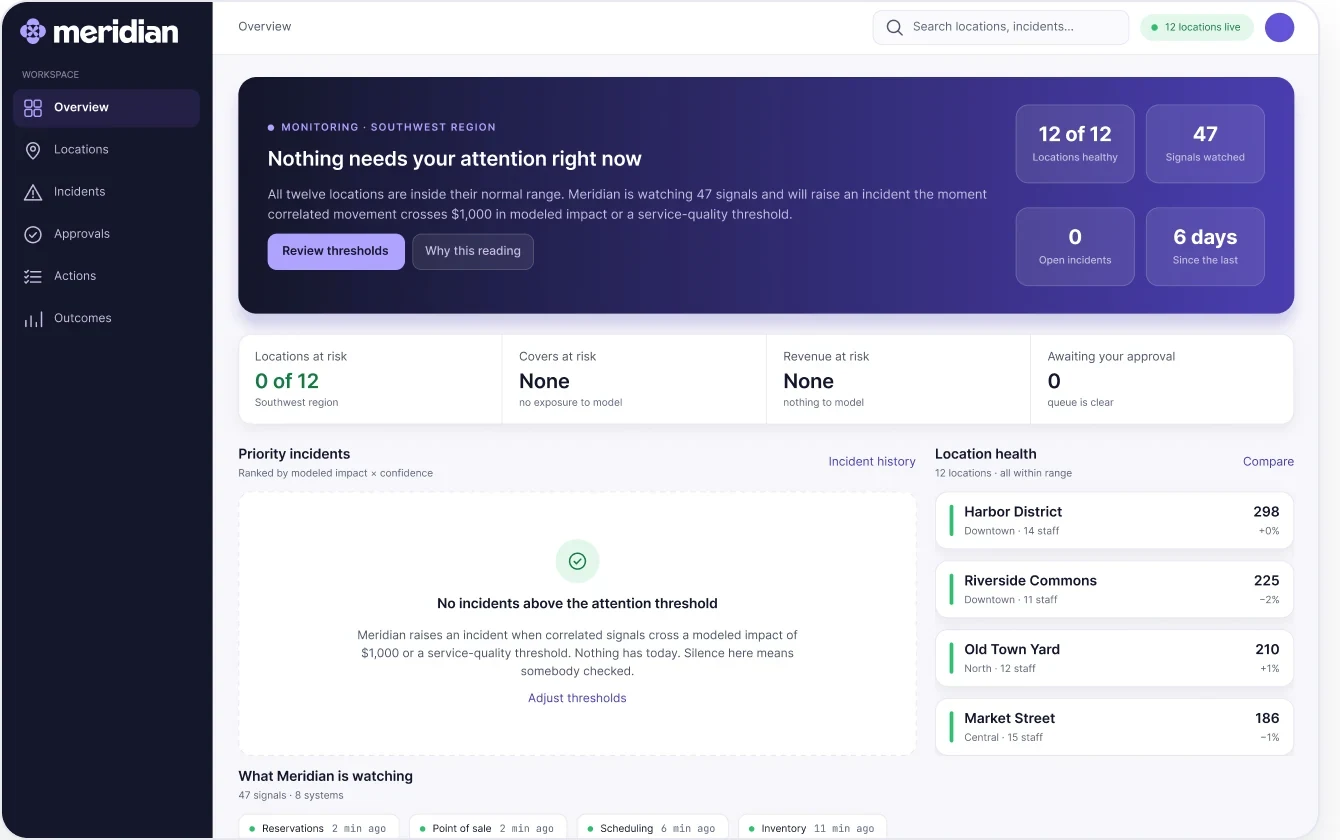
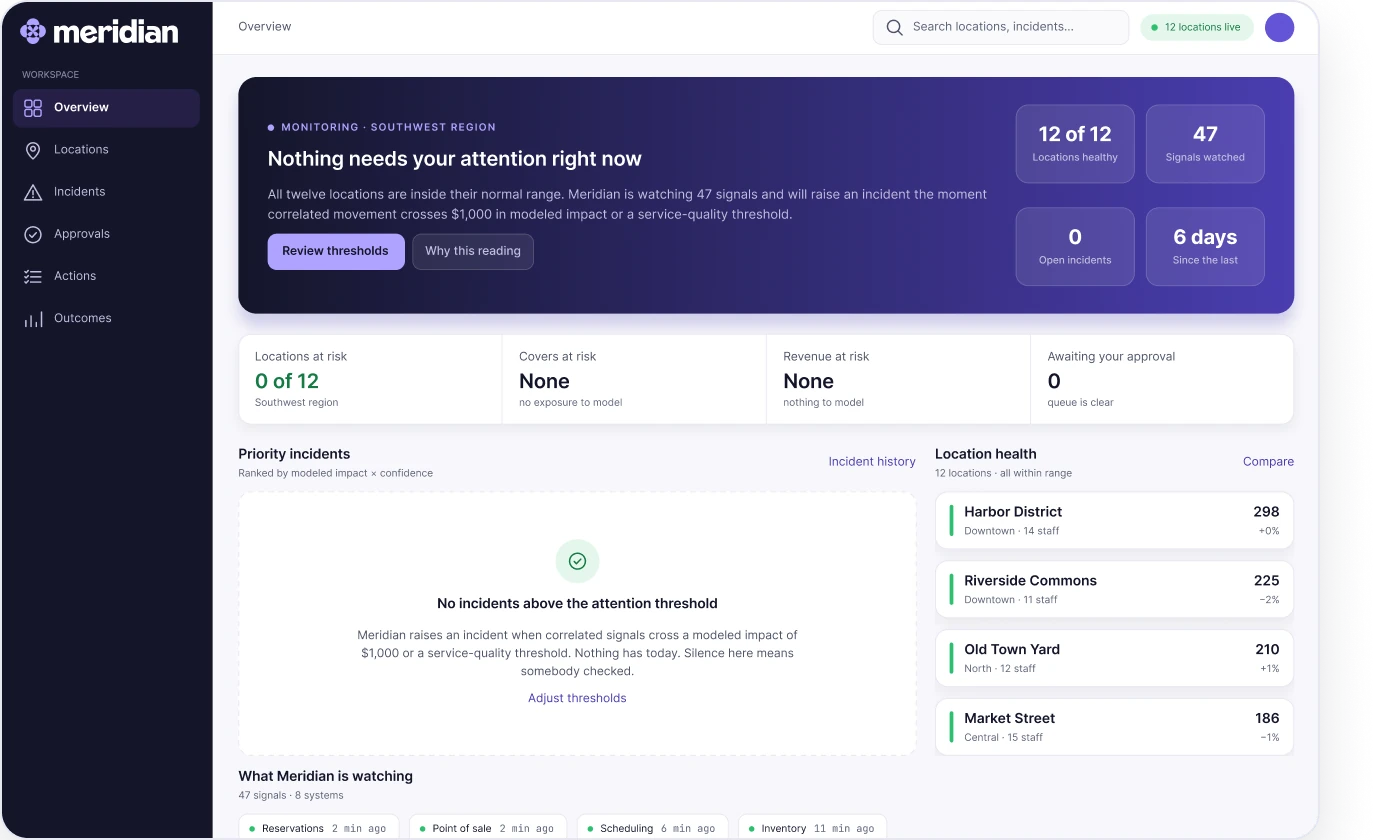
Ship full-frame Meridian 2x stills without CSS clip.
The Figma PNGs already carry radius and shadow in the alpha, so .own-frame drops the Typeshelf card treatment on those figures.

diff --git a/app/meridian/page.tsx b/app/meridian/page.tsx
@@ -38,8 +38,8 @@ export default function Meridian() {
     </dl>
 
     <figure>
-      <div className="shot">
-        <img src="/assets/meridian-hero.webp" alt="Meridian Control Tower overview screen" width="1160" height="664" loading="eager" />
+      <div className="shot own-frame">
+        <img src="/assets/meridian-hero.webp" alt="Meridian Control Tower overview screen" width="2512" height="1842" loading="eager" />
       </div>
     </figure>
   </header>
@@ -190,8 +190,8 @@ export default function Meridian() {
     the situation in a sentence before any metric shows up. The numbers under it are consequences.
     Covers at risk, revenue at risk.</p>
     <figure>
-      <div className="shot">
-        <img src="/assets/meridian-control-tower.webp" alt="Control Tower: regional overview with priority incidents and approvals queue" width="1160" height="839" loading="lazy" />
+      <div className="shot own-frame">
+        <img src="/assets/meridian-control-tower.webp" alt="Control Tower: regional overview with priority incidents and approvals queue" width="2480" height="1810" loading="lazy" />
       </div>
     </figure>
     <div className="notes">
@@ -211,8 +211,8 @@ export default function Meridian() {
     <p className="lede">This screen leads with plain language, then evidence, then a proposal. Nothing asks
     you to act until the situation's been explained in words you could repeat to your own boss.</p>
     <figure>
-      <div className="shot">
-        <img src="/assets/meridian-incident.webp" alt="Incident Workspace: plain-language summary, contributing signals, evidence and recommended response" width="1160" height="1296" loading="lazy" />
+      <div className="shot own-frame">
+        <img src="/assets/meridian-incident.webp" alt="Incident Workspace: plain-language summary, contributing signals, evidence and recommended response" width="2480" height="2724" loading="lazy" />
       </div>
     </figure>
     <div className="notes">
@@ -232,8 +232,8 @@ export default function Meridian() {
     <p className="lede">This screen makes oversight mean something. It shows what you're authorizing, what it
     costs, what you can undo, and how long you have to decide.</p>
     <figure>
-      <div className="shot">
-        <img src="/assets/meridian-recommendation.webp" alt="Recommendation Review: four proposed actions, alternatives considered, expected effect and decision record" width="1160" height="1161" loading="lazy" />
+      <div className="shot own-frame">
+        <img src="/assets/meridian-recommendation.webp" alt="Recommendation Review: four proposed actions, alternatives considered, expected effect and decision record" width="2480" height="2454" loading="lazy" />
       </div>
     </figure>
     <div className="notes">
@@ -254,8 +254,8 @@ export default function Meridian() {
     reasoning attached to the record, and lets the system suggest its own fixes. You still have to
     accept them.</p>
     <figure>
-      <div className="shot">
-        <img src="/assets/meridian-outcome.webp" alt="Outcome and Learning: predicted vs actual, decision record, and proposed model changes" width="1160" height="987" loading="lazy" />
+      <div className="shot own-frame">
+        <img src="/assets/meridian-outcome.webp" alt="Outcome and Learning: predicted vs actual, decision record, and proposed model changes" width="2480" height="2106" loading="lazy" />
       </div>
     </figure>
 
@@ -294,8 +294,8 @@ export default function Meridian() {
       shows the eight systems still reporting and when each last checked, and offers to adjust the
       threshold so you're not left wondering whether it's broken.</p>
       <figure>
-        <div className="shot narrow">
-          <img src="/assets/meridian-edge-allclear.webp" alt="All-clear zero state" width="670" height="420" loading="lazy" />
+        <div className="shot own-frame narrow">
+          <img src="/assets/meridian-edge-allclear.webp" alt="All-clear zero state" width="1384" height="840" loading="lazy" />
         </div>
       </figure>
     </div>
@@ -305,8 +305,8 @@ export default function Meridian() {
       <p>Three weak signals at a venue with four weeks of history. Meridian holds back the impact number,
       lists the three things that would change its mind, and offers to hand it to a person.</p>
       <figure>
-        <div className="shot narrow">
-          <img src="/assets/meridian-edge-lowconfidence.webp" alt="Low-confidence state where Meridian declines to recommend" width="670" height="420" loading="lazy" />
+        <div className="shot own-frame narrow">
+          <img src="/assets/meridian-edge-lowconfidence.webp" alt="Low-confidence state where Meridian declines to recommend" width="1384" height="840" loading="lazy" />
         </div>
         <figcaption>Revenue at risk reads <b>Withheld · Not modeled</b>. A range this wide would just be
         a guess.</figcaption>
@@ -319,8 +319,8 @@ export default function Meridian() {
       marked, and the new constraint carries into whatever gets proposed next. No overtime without a
       second re-check.</p>
       <figure>
-        <div className="shot narrow">
-          <img src="/assets/meridian-edge-rejected.webp" alt="Rejected approval state with recorded rationale" width="670" height="420" loading="lazy" />
+        <div className="shot own-frame narrow">
+          <img src="/assets/meridian-edge-rejected.webp" alt="Rejected approval state with recorded rationale" width="1384" height="840" loading="lazy" />
         </div>
       </figure>
     </div>
@@ -387,11 +387,11 @@ export default function Meridian() {
     </dl>
     <figure>
       <div className="theme-pair">
-        <div className="shot">
-          <img src="/assets/meridian-theme-light.webp" alt="Meridian components in light mode" width="1143" height="1004" loading="lazy" />
+        <div className="shot own-frame">
+          <img src="/assets/meridian-theme-light.webp" alt="Meridian components in light mode" width="1143" height="1005" loading="lazy" />
         </div>
-        <div className="shot">
-          <img src="/assets/meridian-theme-dark.webp" alt="The same components in dark mode" width="1143" height="1004" loading="lazy" />
+        <div className="shot own-frame">
+          <img src="/assets/meridian-theme-dark.webp" alt="The same components in dark mode" width="1143" height="1005" loading="lazy" />
         </div>
       </div>
       <figcaption>The same components in both modes. Verified: 0 WCAG AA failures on every text

diff --git a/components/Figure.tsx b/components/Figure.tsx
@@ -1,20 +1,21 @@
 import type { ReactNode } from "react";
 
 /**
- * The frame lives in CSS, not in the assets. `.shot` supplies the radius and
- * shadow; the exports are opaque RGB and carry no frame of their own. Each
- * Meridian still is padded with 28px of chrome-colored space at the top so the
- * radius clips padding instead of the product logo.
+ * Typeshelf stills are opaque, so `.shot` supplies radius and shadow.
+ * Meridian 2x PNGs already carry both in the alpha: pass `ownFrame` so the
+ * CSS clip does not shave the chrome or double the shadow.
  */
 export function Figure({
-  src, alt, width, height, caption, narrow, priority,
+  src, alt, width, height, caption, narrow, priority, ownFrame,
 }: {
   src: string; alt: string; width: number; height: number;
-  caption?: ReactNode; narrow?: boolean; priority?: boolean;
+  caption?: ReactNode; narrow?: boolean; priority?: boolean; ownFrame?: boolean;
 }) {
+  const shot = ["shot", ownFrame ? "own-frame" : "", narrow ? "narrow" : ""]
+    .filter(Boolean).join(" ");
   return (
     <figure>
-      <div className={`shot${narrow ? " narrow" : ""}`}>
+      <div className={shot}>
         {/* plain <img>: these are pre-sized WebP, and next/image buys nothing on a static export */}
         <img src={src} alt={alt} width={width} height={height}
              loading={priority ? "eager" : "lazy"} />

diff --git a/app/globals.css b/app/globals.css
@@ -152,8 +152,10 @@
 
   .shot{position:relative;width:100%;max-width:1160px;margin-inline:auto;
     border-radius:var(--r-card);overflow:hidden;box-shadow:var(--shadow)}
-  /* Same frame as Typeshelf: radius + shadow. Assets carry ~28px of chrome
-     padding above the logo so the radius clips pad, not the brand. */
+  /* Typeshelf stills are opaque, so .shot supplies the radius and shadow.
+     Meridian 2x PNGs already carry both in the alpha. .own-frame drops the
+     CSS clip or it shaves the chrome and doubles the shadow. */
+  .shot.own-frame{border-radius:0;overflow:visible;box-shadow:none}
   .theme-pair{display:grid;grid-template-columns:1fr 1fr;gap:clamp(14px,2vw,26px);
     margin-top:38px;align-items:start}
   .theme-pair .shot{max-width:none;margin-inline:0}

diff --git a/TODO.md b/TODO.md
@@ -44,19 +44,15 @@ Ordered by what a reviewer notices first.
 
 ## Meridian stills
 
-- [ ] **Re-export the hero frame from Figma.** The `meridian-hero.webp` that shipped in the
-      first commit was cropped 12px into the product logo at export time — the mark's top was
-      sliced and the "Overview" breadcrumb was cut in half. The current file is a stand-in
-      derived from `meridian-control-tower.webp`, which is the same Overview screen exported
-      cleanly, trimmed to the hero's 1.72:1 slot. **Worth deciding first:** since the two are
-      the same screen, a faithful re-export gives the page the same image twice. Leading with
-      the Incident Workspace or the low-confidence edge state may be the better call.
-- [ ] **Edge-state exports end mid-content.** `edge-allclear`, `edge-lowconfidence` and
-      `edge-rejected` are faithful to their Figma exports, but each stops partway through a
-      section ("Alternatives Meridian considered" is cut under its own subtitle). Re-export
-      those three at a section boundary.
-- Originals live in `tmp-shots/origs/`. Never crop `public/assets/` in place — restore from
-  there and re-derive.
+- Full-frame 2x PNG exports from Figma now ship as `public/assets/meridian-*.webp`
+  with alpha. Do not crop them to a Typeshelf-like viewport. `.shot.own-frame`
+  keeps the CSS radius from shaving the chrome.
+- [ ] **Rejected edge still ends mid-section in Figma.** `meridian-edge-rejected`
+      is the full export; "Alternatives Meridian considered" is already cut in
+      the frame. Re-export that one at a section boundary in
+      `QFFNEkI81GeyRBpkcoX6d6`.
+- Originals live in `tmp-shots/origs/`. Never crop `public/assets/` in place —
+  restore from there.
 
 
 ## Checks

diff --git a/AGENTS.md b/AGENTS.md
@@ -46,10 +46,10 @@ The ceiling is `--lockup-max`.
 **`prefers-reduced-motion` gets a composed still, not a freeze.** Letters settle into
 varied rotations with a static tint. Test it before touching the hero.
 
-**`.shot` framing depends on the export format.** Current Meridian assets are JPEG
-(no alpha), so the bleed was cropped and the frame lives in CSS — radius, overflow
-hidden, shadow. If assets are ever re-exported as PNG the shadow rides in the alpha
-and all of that must come back out, or the frame doubles.
+**`.shot` framing depends on the export format.** Typeshelf stills are opaque, so
+`.shot` supplies radius, overflow clip, and shadow. Meridian stills are 2x PNGs
+with the radius and drop shadow in the alpha. Those figures use `.shot.own-frame`,
+which drops the CSS frame. Adding it back clips the chrome and doubles the shadow.
 
 **Tags in the work index are metadata, not filters.** Turn filtering on around six
 projects. A filter that returns "2 of 2" makes the roster look smaller.

diff --git a/README.md b/README.md
@@ -63,8 +63,9 @@ display face doesn't break it. The ceiling is `--lockup-max`.
 varied rotations with a static tint. Check it before changing the hero.
 
 **The Meridian screens carry their own frame.** Their rounded corners and drop
-shadow live in the alpha channel, so `.shot` adds no border, background, shadow
-or overflow clip. Adding any doubles the frame.
+shadow live in the alpha channel, so `.shot.own-frame` adds no border, background,
+shadow or overflow clip. Adding any doubles the frame. Typeshelf stills stay
+opaque, so the shared `.shot` class still supplies that frame there.
 
 **Tags in the work index are metadata, not filters.** A filter that returns
 "2 of 2" makes the roster look smaller than just showing it. Turn filtering on
